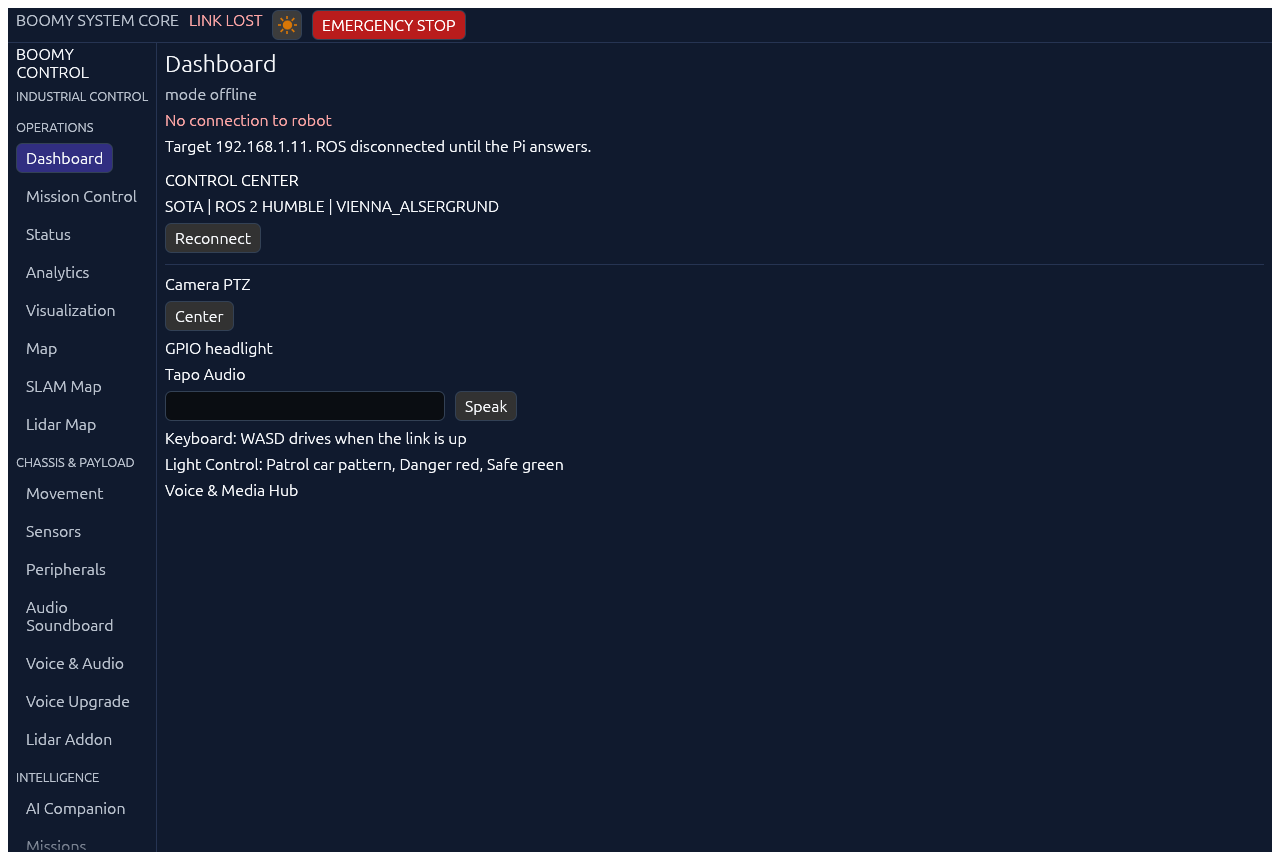
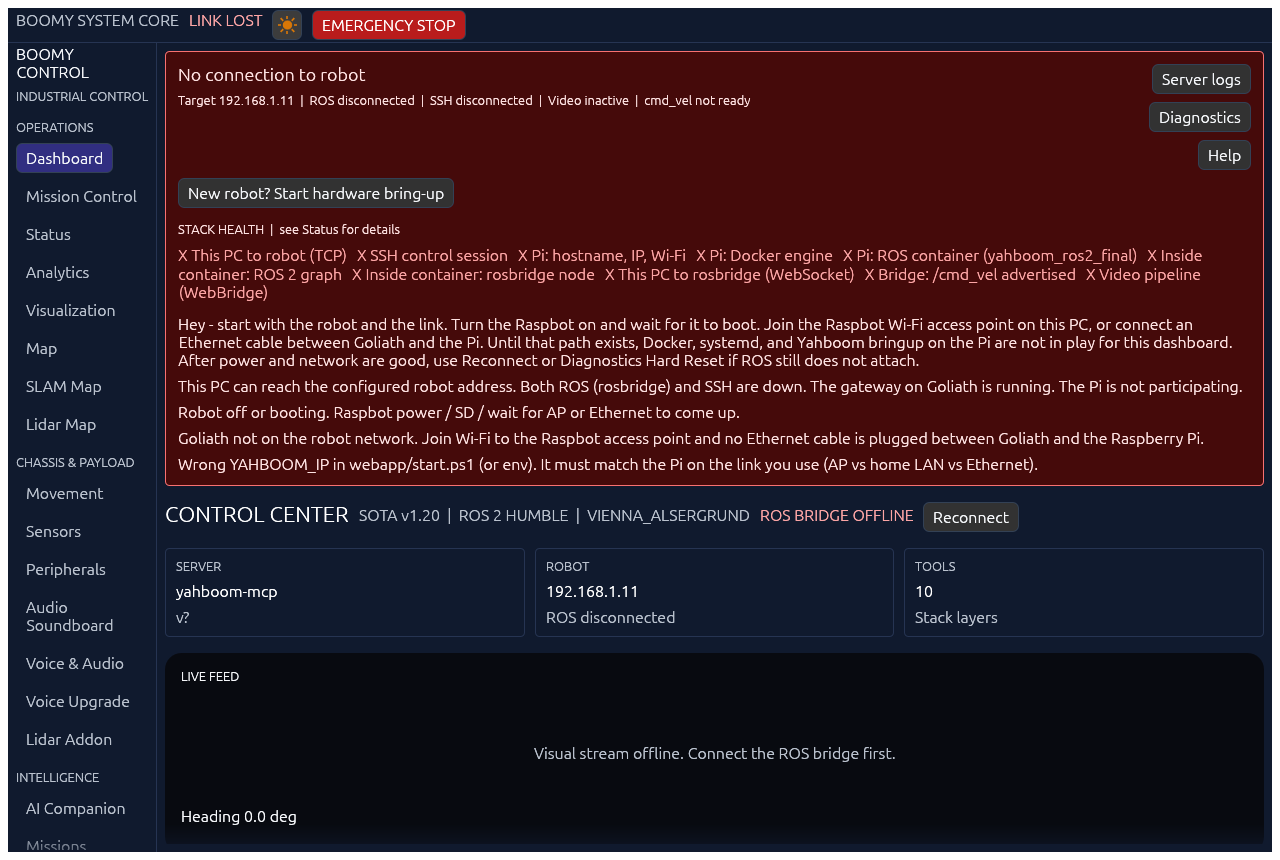
wip(auto): 2026-10-19 04:05 - docs [docs] (3)
WIP-Auto: wip-sweep v1

diff --git a/docs/UI_PARITY.md b/docs/UI_PARITY.md
@@ -1,12 +1,12 @@
 # UI parity
 
-**Status:** legacy frames and Rust stills are both on disk. Layout is not near-identical yet.
+**Status:** dashboard layout now follows the legacy board. Other pages are still the shared card list.
 
 Rust frames are `docs/parity/rust/*.png` (30 pages, 1280x860, dark theme, kittest wgpu). Same slugs as `docs/parity/legacy/` plus `crossconnect.png` and `raw.png`.
 
-What matches: page names, group order, indigo selection, dark ground, readable body text.
+Dashboard has the connection banner, stack-health chips, bring-up copy, Control Center line, server/robot/tools tiles, the offline stream panel, the four telemetry tiles, and the deployment column (PTZ, headlight, Tapo speak, keyboard, lights, voice). PTZ, speak, and lights confirm through the tool bus. Headlight and Tapo listen do not: GPIO and the microphone are separate HTTP paths.
 
-What does not: the legacy dashboard is a stack-health board with bring-up copy and shortcut buttons. The Rust dashboard is a short status column plus the PTZ, headlight, and speak controls. Card pages list the same preset titles. They are not the webapp's dense panels.
+Movement and the other card pages still use one vertical list. They are not the webapp's dense panels.
 
 ## Exceptions already known
 
